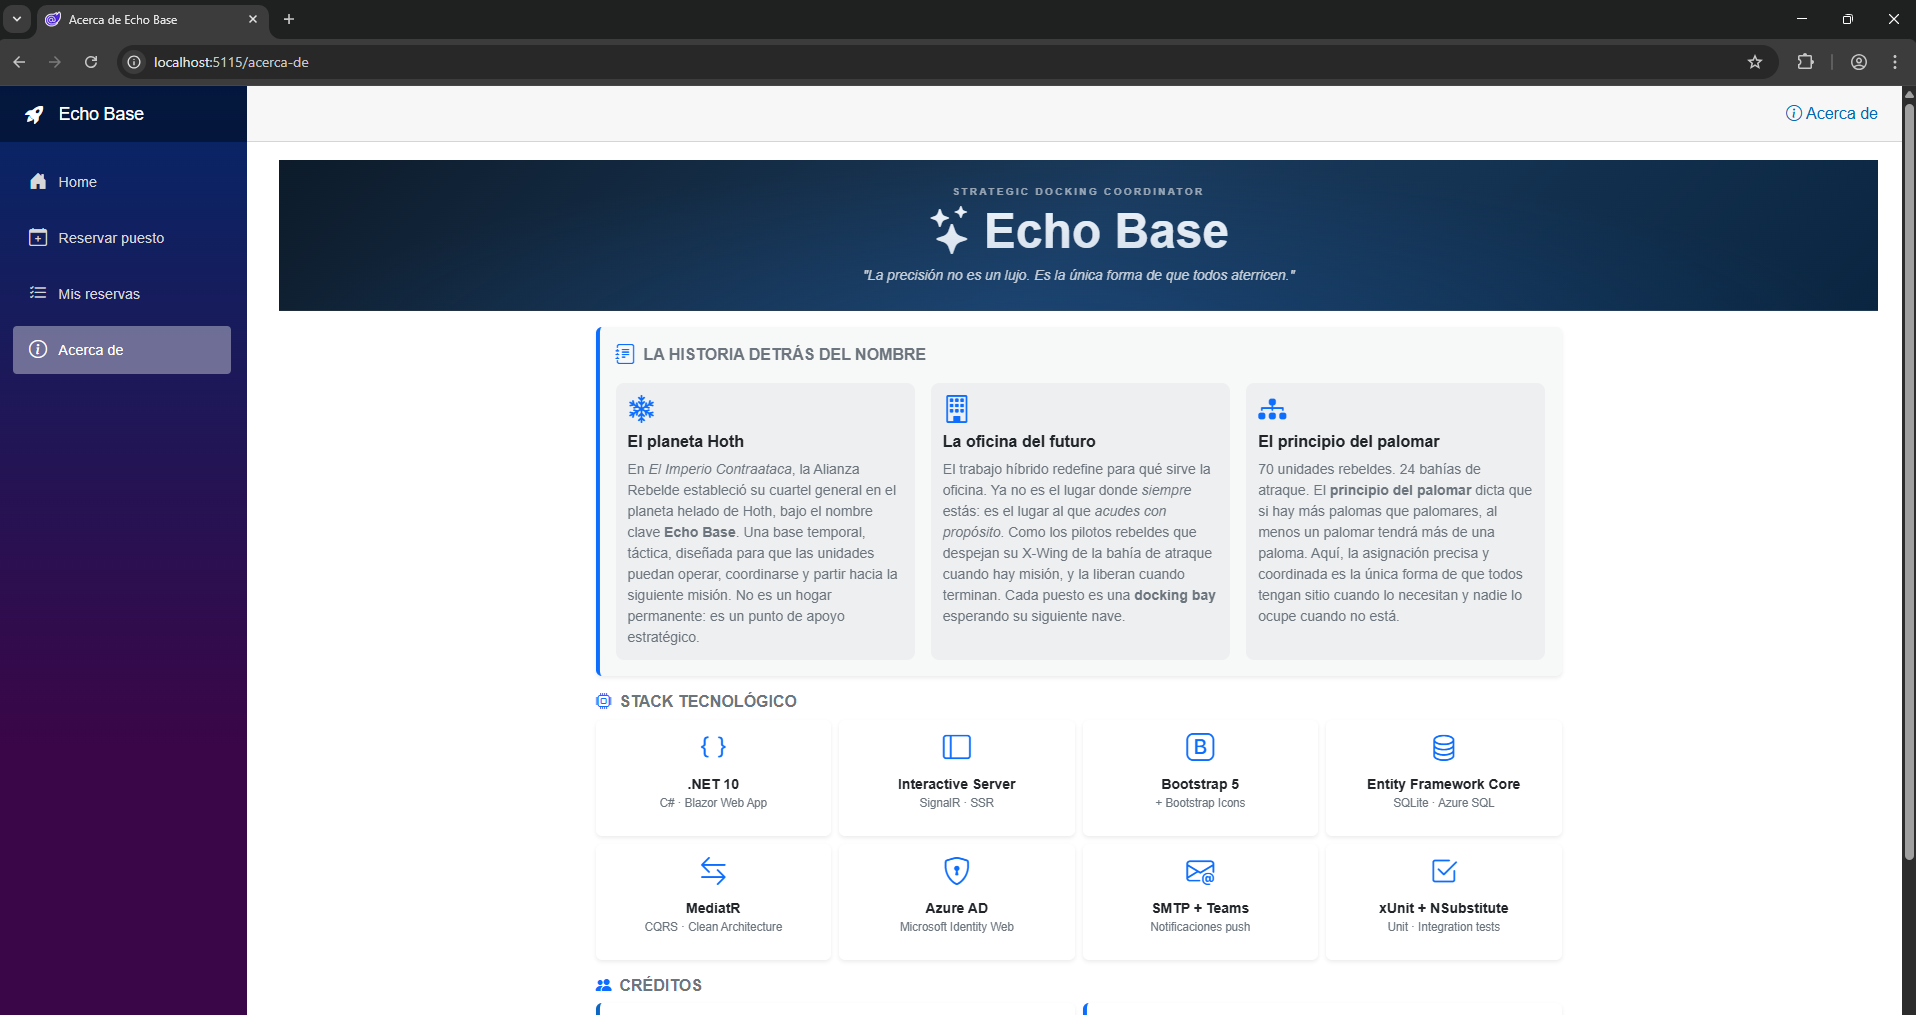
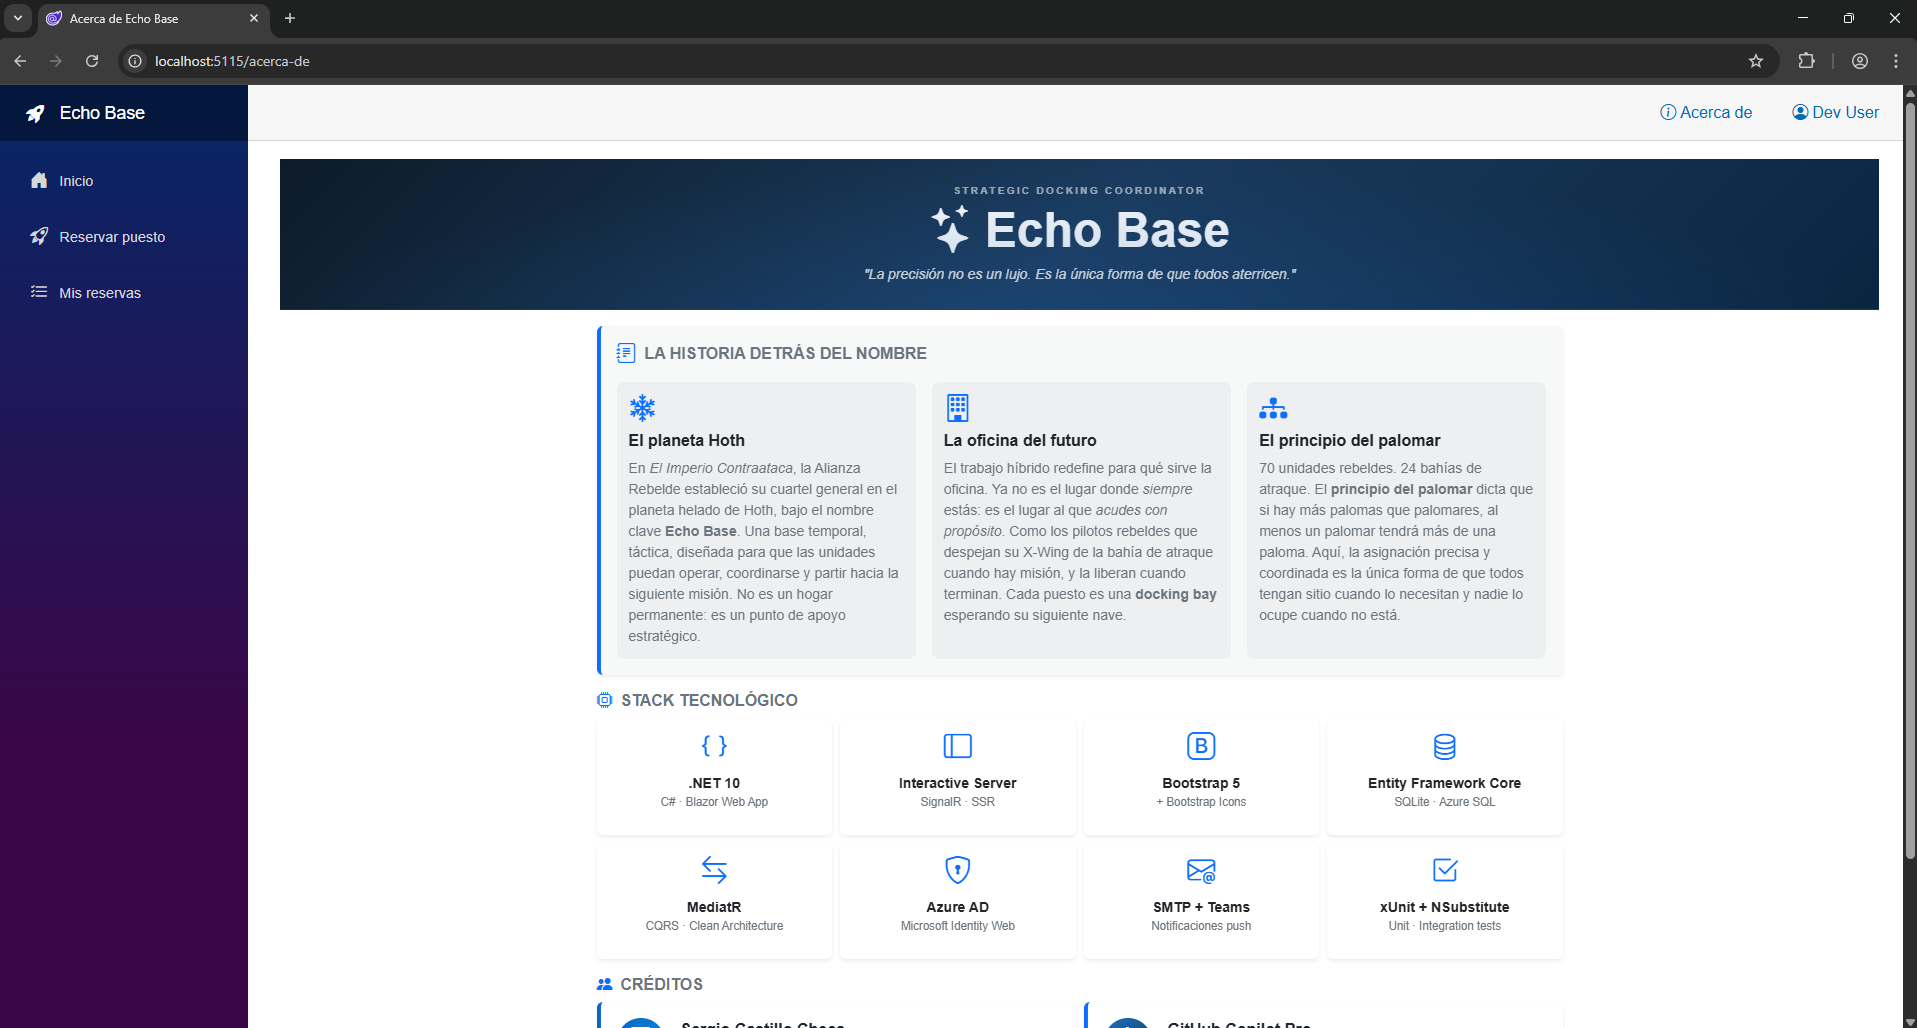
Actualización de la galería de pantallas del documento specs.md para reflejar los últimos cambios en la UI

diff --git a/docs/specs.md b/docs/specs.md
@@ -61,6 +61,9 @@ A continuación se muestran capturas de las pantallas principales del sistema, q
 ![Acerca de - Parte 1](004.About_01.png)
 ![Acerca de - Parte 2](004.About_02.png)
 
+#### 5. Perfil de Usuario (`UserProfile.razor`)
+![Perfil de Usuario](005.UserProfile.png)
+
 ## Modelo de datos
 1. **User** (Empleado que reserva espacio): Id, Nombre, Email, Línea de negocio (Core, Energía, Scrap/Waste, Transversal), Teléfono de contacto (opcional), NotificaciónEmail (bool), NotificaciónTeams (bool).
 2. **Dock** (Puesto de trabajo): Id, Código (ej: A-01), Ubicación, Equipamiento (Monitor doble, etc.).
